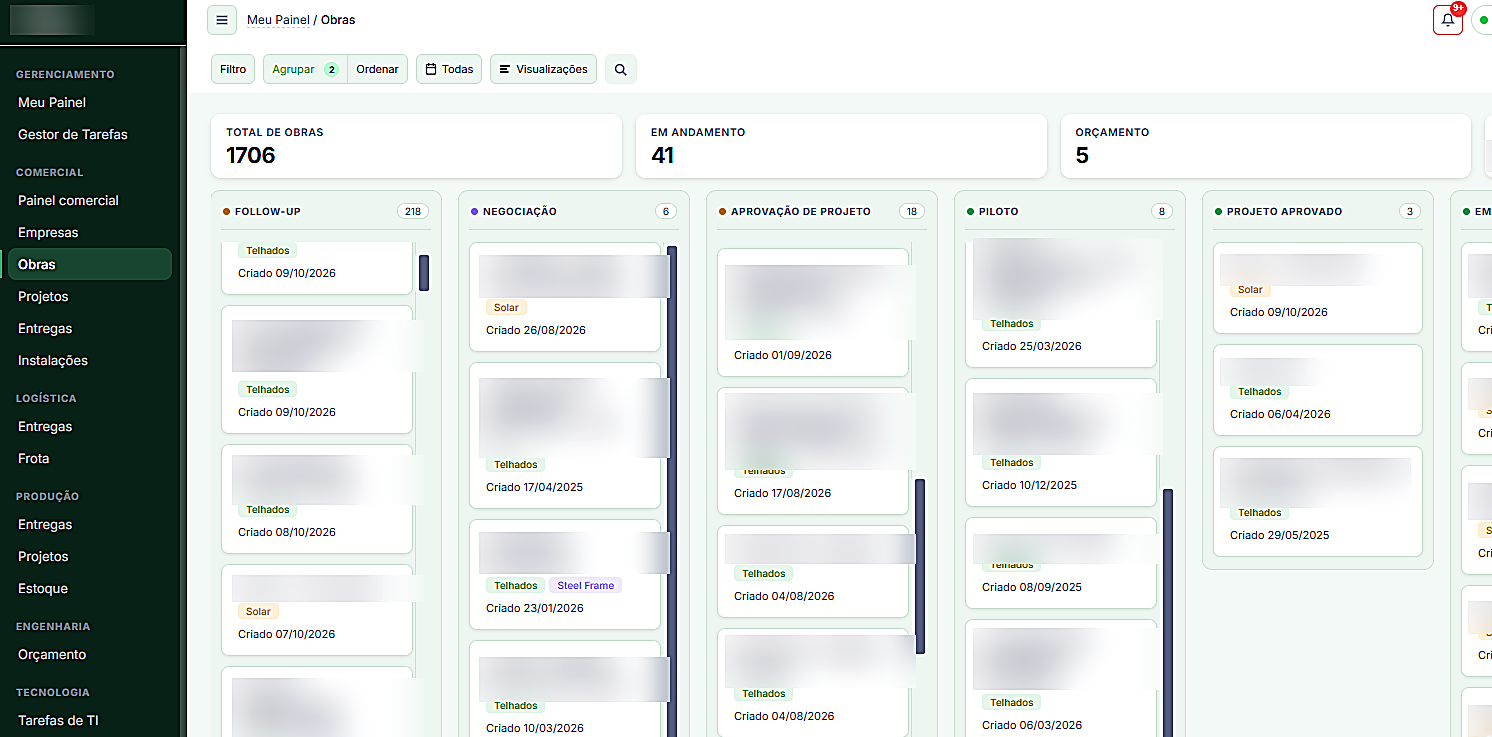
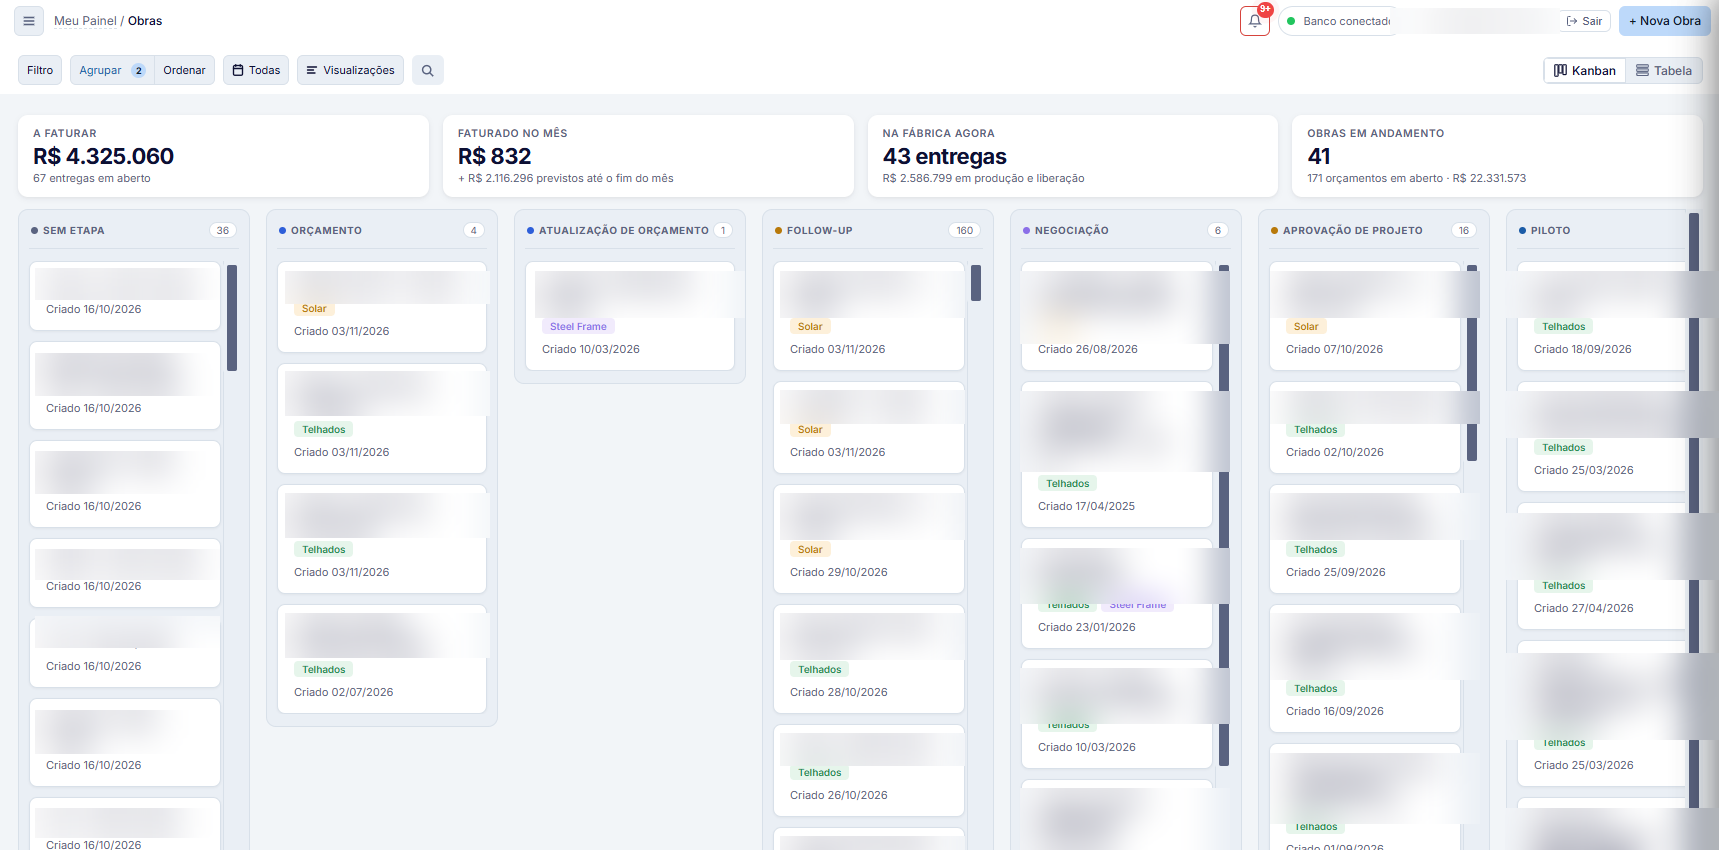
Amplia o case de construção industrializada e corrige a dobra do hero
Substitui o print de Obras por uma versão mais completa, e adiciona 3 telas novas (Estoque, Permissões, Meu perfil) ao case — todas com os dados sensíveis borrados mas a estrutura da interface preservada, igual ao padrão das outras. Atualiza o array MILA_SHOTS em portfolio.js.

Corrige também o hero: o parágrafo e os botões da seção seguinte apareciam no rodapé da primeira dobra em telas mais baixas, porque o bloco do hero usava flex:1 (só cresce se sobrar espaço) em vez de ocupar a altura da viewport garantidamente. Agora tem min-height próprio.

E ajusta a resposta 'Com quem eu falo durante o projeto?' do FAQ pra citar o nome da Lorena e o cargo dela, de forma direta e sem apelo.

Claude-Session: https://claude.ai/code/session_01Kkat9Arr9QPmwNV889KMTP

diff --git a/index.html b/index.html
@@ -172,7 +172,7 @@
 </div>
 
 <section id="inicio" data-screen-label="Hero" style="position:relative;min-height:calc(100vh - 66px);display:flex;flex-direction:column;overflow:hidden;background:#d6d6cf" tabindex="-1">
-  <div id="hero" style="position:relative;flex:1;display:flex;flex-direction:column;justify-content:space-between">
+  <div id="hero" style="position:relative;flex:none;min-height:calc(100vh - 66px);display:flex;flex-direction:column;justify-content:space-between">
 
     <div id="brand" style="position:absolute;inset:0;pointer-events:none"></div>
     <canvas id="cover" style="position:absolute;inset:0;width:100%;height:100%;pointer-events:none;display:block"></canvas>
@@ -377,7 +377,7 @@
         <span>Com quem eu falo durante o projeto?</span><span class="faq-sign" style="font-size:20px;font-weight:300">+</span>
       </button>
       <div class="faq-a" style="max-height:0;overflow:hidden">
-        <p style="margin:0;padding:0 48px 28px 0;font-size:16px;line-height:1.7;color:#2b2e24">Comigo, do início ao fim. Não existe equipe entre o seu problema e o código: eu converso com você, desenho a solução e escrevo o sistema. O código fica documentado e é seu, então você nunca fica refém de mim pra mexer nele depois.</p>
+        <p style="margin:0;padding:0 48px 28px 0;font-size:16px;line-height:1.7;color:#2b2e24">Com a Lorena Cardoso, arquiteta de soluções e criadora da buov.ai, do início ao fim. Não existe equipe entre o seu problema e o código: eu converso com você, desenho a solução e escrevo o sistema. O código fica documentado e é seu, então você nunca fica refém de mim pra mexer nele depois.</p>
       </div>
     </div>
     <div class="faq-item" style="border-bottom:1px solid #0e0f0b">

diff --git a/js/portfolio.js b/js/portfolio.js
@@ -31,6 +31,9 @@
     { key: "tarefas", label: "Tarefas de TI", src: "assets/caso-mila-tarefas-v1.png", caption: "Até a manutenção do próprio sistema roda dentro dele: backlog, tarefas em andamento e concluídas, com subtarefas e anexos." },
     { key: "rh", label: "Colaboradores", src: "assets/caso-mila-rh-v1.png", caption: "Módulo de RH com dados do colaborador, férias e atestados, com pendências de cadastro sinalizadas automaticamente." },
     { key: "producao", label: "Produção", src: "assets/caso-mila-producao-v1.png", caption: "Ordens de produção por obra, com quantidade, pedido vinculado, status e entrega ligada a cada uma." },
+    { key: "estoque", label: "Estoque", src: "assets/caso-mila-estoque-v1.png", caption: "Acompanha o estoque em cada etapa da fábrica, do rolo de aço até a entrega, com o total fabricado no mês e no ano." },
+    { key: "permissoes", label: "Permissões", src: "assets/caso-mila-permissoes-v1.png", caption: "Controle de acesso por colaborador: cada um só vê as abas liberadas pra sua função, módulo por módulo." },
+    { key: "perfil", label: "Meu perfil", src: "assets/caso-mila-perfil-v1.png", caption: "Painel personalizável: cada usuário ajusta tema, cor do sistema e os próprios dados de cadastro." },
   ];
 
   const TRILHAR_SHOTS = [
